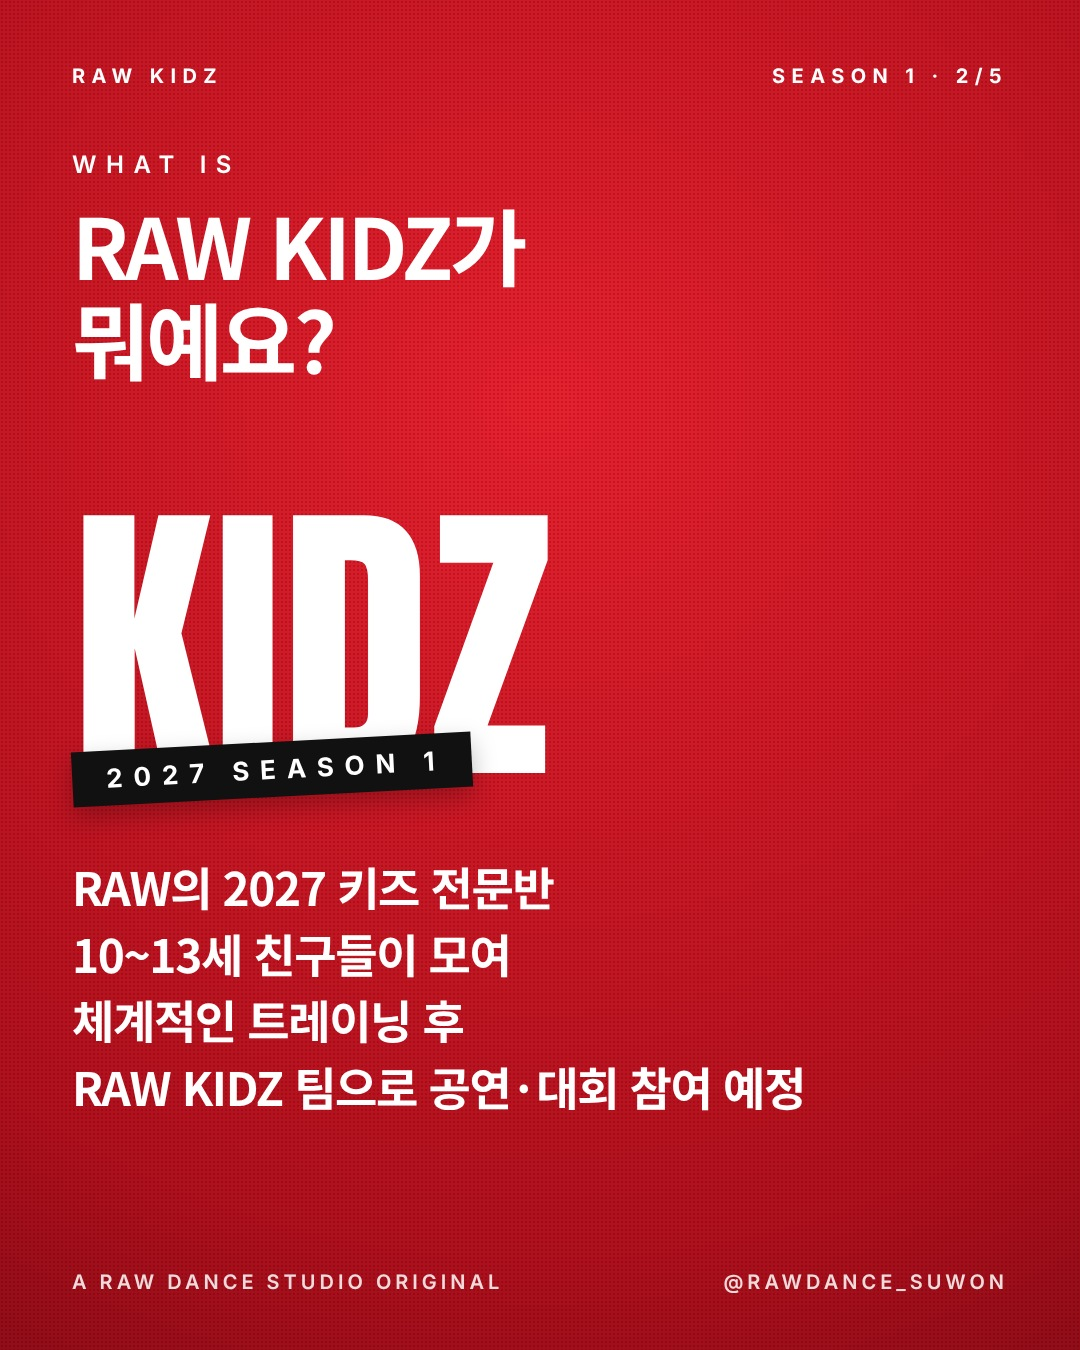
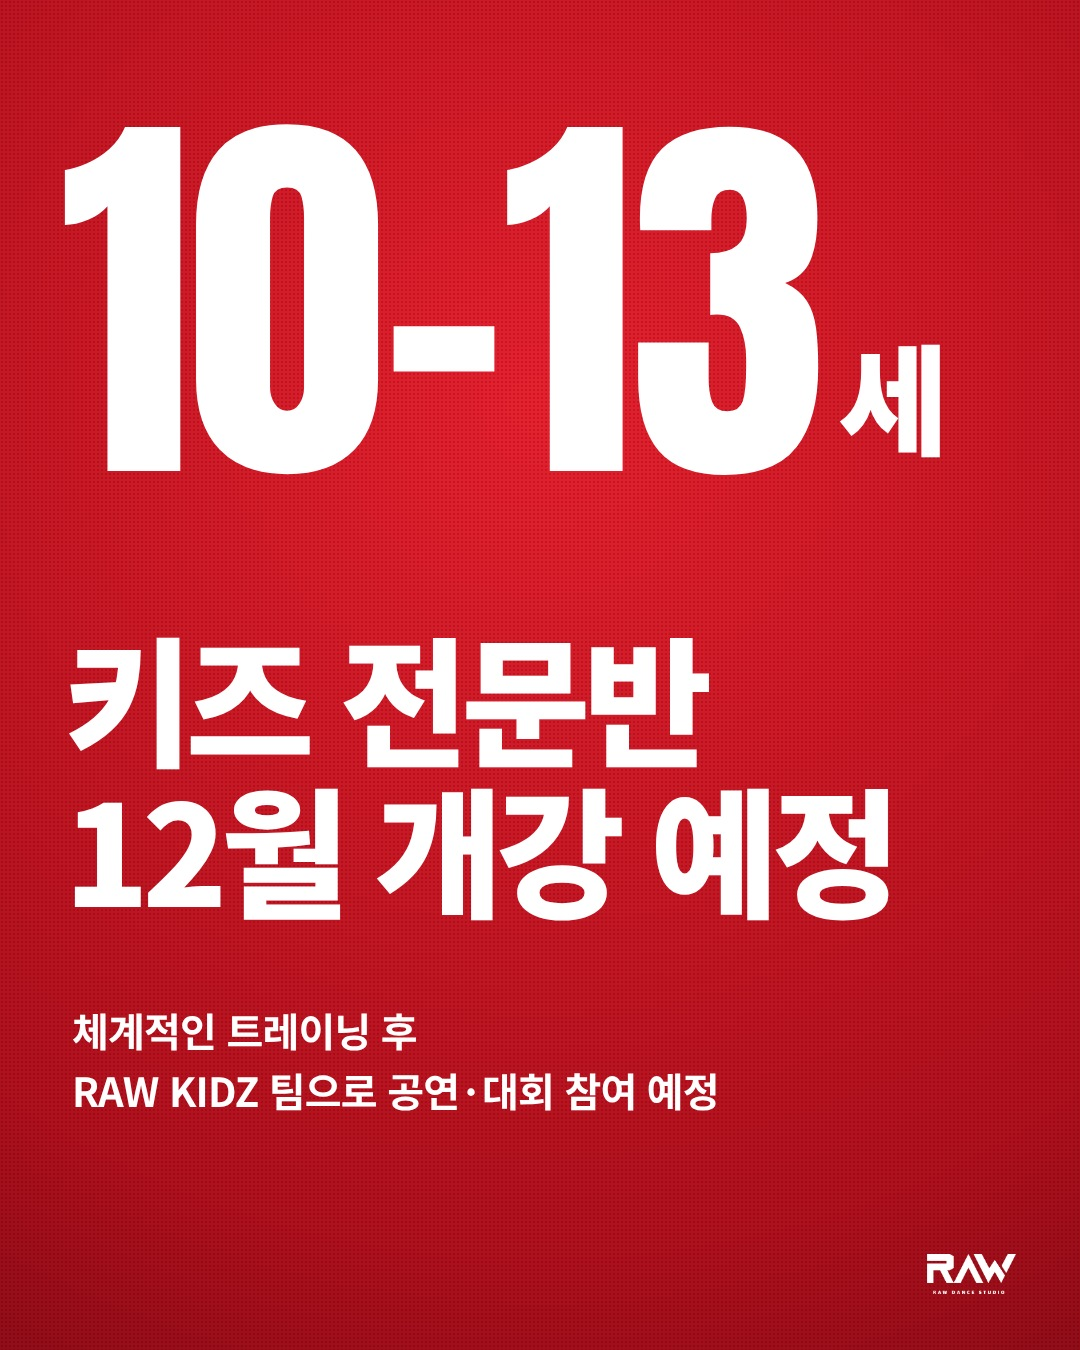
키즈 전문반 캐러셀 2차(AI 티 빼고 큰 글씨), 포스터 '2027' 삭제(12월 개강 예정과 혼동)
Claude-Session: https://claude.ai/code/session_01CMPXWNa21Fqq6srPZpa27D

diff --git a/content/2026-11-19_kidz-pro-poster/poster6.html b/content/2026-11-19_kidz-pro-poster/poster6.html
@@ -26,7 +26,7 @@ V.L1=`<div class="P" style="background:radial-gradient(120% 90% at 50% 30%,#E820
  ${BAND(220+360*0.84+4,30,'#111','#fff',470)}
  <div style="position:absolute;left:0;right:0;top:850px;text-align:center;color:#fff">
   <div style="font-size:32px;font-weight:800;margin-bottom:20px;letter-spacing:-.01em">RAW KIDZ 팀 구성 예정</div>
-  <div style="font-size:56px;font-weight:800;letter-spacing:-.03em">2027 키즈 전문반 모집 <span style="border:2px solid #fff;padding:2px 16px;font-size:44px">10~13세</span></div>
+  <div style="font-size:56px;font-weight:800;letter-spacing:-.03em">키즈 전문반 모집 <span style="border:2px solid #fff;padding:2px 16px;font-size:44px">10~13세</span></div>
   <div style="margin-top:18px;font-size:25px;font-weight:500">${LINE}</div></div>
  ${FOOT('#fff')}
 </div>`;
@@ -39,7 +39,7 @@ V.L2=`<div class="P" style="background:radial-gradient(120% 90% at 50% 30%,#E820
  ${BAND(220+360*0.84+4,30,'#111','#fff',470)}
  <div style="position:absolute;left:0;right:0;top:850px;text-align:center;color:#fff">
   <div style="font-size:32px;font-weight:800;margin-bottom:20px;letter-spacing:-.01em">RAW KIDZ 팀 구성 예정</div>
-  <div style="font-size:56px;font-weight:800;letter-spacing:-.03em">2027 키즈 전문반 모집 <span style="border:2px solid #fff;padding:2px 16px;font-size:44px">10~13세</span></div>
+  <div style="font-size:56px;font-weight:800;letter-spacing:-.03em">키즈 전문반 모집 <span style="border:2px solid #fff;padding:2px 16px;font-size:44px">10~13세</span></div>
   <div style="margin-top:18px;font-size:25px;font-weight:500">${LINE}</div></div>
 <div style="position:absolute;left:64px;right:64px;height:1px;background:rgba(255,255,255,.45);top:1112px"></div><div style="position:absolute;left:64px;right:64px;top:1128px;display:flex;color:#fff"><div style="flex:1;padding:6px 0 0 0px;"><div style="font-size:17px;opacity:.7;font-weight:500">대상</div><div style="margin-top:4px;font-size:26px;font-weight:800;letter-spacing:-.02em">10~13세</div></div><div style="flex:1;padding:6px 0 0 24px;border-left:1px solid rgba(255,255,255,.45);"><div style="font-size:17px;opacity:.7;font-weight:500">과정</div><div style="margin-top:4px;font-size:26px;font-weight:800;letter-spacing:-.02em">트레이닝 → 팀</div></div><div style="flex:1;padding:6px 0 0 24px;border-left:1px solid rgba(255,255,255,.45);"><div style="font-size:17px;opacity:.7;font-weight:500">무대</div><div style="margin-top:4px;font-size:26px;font-weight:800;letter-spacing:-.02em">공연·대회 예정</div></div></div><div style="position:absolute;left:64px;right:64px;height:1px;background:rgba(255,255,255,.45);top:1218px"></div> ${FOOT('#fff')}
 </div>`;
@@ -52,7 +52,7 @@ V.L3=`<div class="P" style="background:radial-gradient(120% 90% at 50% 30%,#E820
  ${BAND(220+360*0.84+4,30,'#111','#fff',470)}
  <div style="position:absolute;left:0;right:0;top:850px;text-align:center;color:#fff">
   <div style="font-size:32px;font-weight:800;margin-bottom:20px;letter-spacing:-.01em">RAW KIDZ 팀 구성 예정</div>
-  <div style="font-size:56px;font-weight:800;letter-spacing:-.03em">2027 키즈 전문반 모집 <span style="border:2px solid #fff;padding:2px 16px;font-size:44px">10~13세</span></div>
+  <div style="font-size:56px;font-weight:800;letter-spacing:-.03em">키즈 전문반 모집 <span style="border:2px solid #fff;padding:2px 16px;font-size:44px">10~13세</span></div>
   <div style="margin-top:18px;font-size:25px;font-weight:500">${LINE}</div></div>
  <div style="position:absolute;left:64px;right:64px;bottom:44px;display:flex;justify-content:space-between;align-items:flex-end;color:#fff"><div style="font-size:22px;line-height:1.6;font-weight:500"><b style="font-weight:800">상담</b> 인스타 DM @rawdance_suwon · 카톡 '로우댄스수원점학원' · 031-225-6600<br><span style="opacity:.65;font-size:18px">로우댄스학원 수원점 · 매산로 136, 4층 · 일정은 상담 때 안내</span></div><img class="logoW" src="img/raw-logo-tight.png" style="height:40px;margin-bottom:6px"></div>
 </div>`;
@@ -65,7 +65,7 @@ V.L3S=`<div class="P" style="height:1920px;background:radial-gradient(120% 80% a
  ${BAND(310+400*0.84+4,34,'#111','#fff',520)}
  <div style="position:absolute;left:0;right:0;top:1020px;text-align:center;color:#fff">
   <div style="font-size:36px;font-weight:800;margin-bottom:20px;letter-spacing:-.01em">RAW KIDZ 팀 구성 예정</div>
-  <div style="font-size:64px;font-weight:800;letter-spacing:-.03em">2027 키즈 전문반 모집</div>
+  <div style="font-size:64px;font-weight:800;letter-spacing:-.03em">키즈 전문반 모집</div>
   <div style="margin-top:20px;display:inline-block;border:3px solid #fff;padding:6px 26px;font-size:48px;font-weight:800">10~13세</div>
   <div style="margin-top:30px;font-size:28px;font-weight:500;line-height:1.5">체계적인 트레이닝 후 RAW KIDZ 팀으로<br>공연·대회 참여 예정</div></div>
  <div style="position:absolute;left:64px;right:64px;bottom:260px;text-align:center;color:#fff;font-size:26px;line-height:1.6;font-weight:500"><b style="font-weight:800">상담</b> 인스타 DM · 카톡 '로우댄스수원점학원' · 031-225-6600

diff --git a/content/2026-11-25_kidz-pro-teaser/carousel2.html b/content/2026-11-25_kidz-pro-teaser/carousel2.html
@@ -1,0 +1,48 @@
+<!doctype html><html lang="ko"><head><meta charset="utf-8"><style>
+/* 키즈 전문반 캐러셀 2~5장 2차 (원장님 2026-11-25 "캐러셀 5장 클로드 티 안 나게 다시")
+   1차에서 AI 티 난 것: 넓게 벌린 작은 영어 라벨(WHAT IS·EPISODES·SEASON 1·2/5·A RAW DANCE STUDIO ORIGINAL), 가는 선 표, 체크박스, EPISODE 01 같은 장치
+   → 1장 포스터(L3 미니멀)와 같은 빨강 바탕·큰 글씨. 장마다 한 문장만 크게, 작은 영어 라벨 없음, 오른쪽 아래 RAW 로고만
+   문구는 검수 통과 내용 + 12월 개강 예정(브랜드 가이드 11-25) */
+*{margin:0;padding:0;box-sizing:border-box}html,body{width:1080px;height:1350px;overflow:hidden}
+.P{width:1080px;height:1350px;position:relative;overflow:hidden;color:#fff;font-family:"Gothic A1","Noto Sans KR",sans-serif;background:radial-gradient(120% 90% at 50% 30%,#E8202E 0%,#B00F1C 70%,#7E0A14 100%)}
+.dot{position:absolute;inset:0;opacity:.16;background-image:radial-gradient(#000 1px,transparent 1px);background-size:4px 4px}
+.logo{position:absolute;right:64px;bottom:56px;height:40px;filter:brightness(0) invert(1)}
+.a{position:absolute}
+.h{font-weight:900;letter-spacing:-.05em;line-height:1.08}
+.s{font-weight:500;letter-spacing:-.02em;line-height:1.5}
+.bub{display:inline-block;position:relative;background:#fff;color:#111;border-radius:56px;padding:34px 54px 38px;font-size:70px;font-weight:900;letter-spacing:-.04em;line-height:1.15;box-shadow:0 18px 40px rgba(0,0,0,.28)}
+.bub:after{content:"";position:absolute;bottom:-30px;border:20px solid transparent;border-top:38px solid #fff}
+.bub.l:after{left:64px;border-left:26px solid #fff;transform:skewX(-14deg)}
+.bub.r:after{right:64px;border-right:26px solid #fff;transform:skewX(14deg)}
+.step{display:flex;align-items:baseline;gap:34px}
+.step b{font-size:200px;font-weight:900;line-height:1;letter-spacing:-.06em}
+.step span{font-size:40px;font-weight:700;letter-spacing:-.02em;opacity:.95}
+.step em{font-style:normal;display:inline-block;background:#111;color:#fff;font-size:26px;font-weight:800;padding:4px 14px;margin-left:10px;vertical-align:middle}
+</style></head><body><div id="r"></div>
+<script>
+const s=+new URLSearchParams(location.search).get('s')||2;
+const S={};
+// 2장: 누구·언제 — 나이 숫자를 가장 크게
+S[2]=`<div class="a" style="left:60px;top:130px;display:flex;align-items:flex-end;gap:14px"><span style="font:400 400px/0.86 Anton;letter-spacing:-.01em">10–13</span><span class="h" style="font-size:120px;margin-bottom:14px">세</span></div>
+ <div class="a h" style="left:64px;top:620px;font-size:140px">키즈 전문반<br>12월 개강 예정</div>
+ <div class="a s" style="left:72px;top:1000px;font-size:40px;font-weight:700">체계적인 트레이닝 후<br>RAW KIDZ 팀으로 공연·대회 참여 예정</div>`;
+// 3장: 과정 — 단어 세 개를 크게 쌓기
+S[3]=`<div class="a h" style="left:72px;top:110px;font-size:64px;font-weight:800">이렇게 가요</div>
+ <div class="a" style="left:64px;top:270px;display:flex;flex-direction:column;gap:70px">
+  <div class="step"><b>기본기</b><span>체계적인 트레이닝</span></div>
+  <div class="step"><b>한 팀</b><span>RAW KIDZ 팀 구성<em>예정</em></span></div>
+  <div class="step"><b>무대</b><span>공연·대회 참여<em>예정</em></span></div></div>
+ <div class="a s" style="left:72px;top:1130px;font-size:36px;font-weight:700;opacity:.92">팀으로 무대에 서는 게 목표예요</div>`;
+// 4장: 이런 친구 — 아이가 하는 말(말풍선, B2 광고에서 원장님이 고른 방식)
+S[4]=`<div class="a h" style="left:72px;top:110px;font-size:64px;font-weight:800">우리 아이가<br>이런 말 했다면</div>
+ <div class="a" style="left:64px;top:430px"><div class="bub l">춤 제대로<br>배우고 싶어!</div></div>
+ <div class="a" style="right:64px;top:700px"><div class="bub r">나도 무대에<br>서 보고 싶어</div></div>
+ <div class="a" style="left:100px;top:990px"><div class="bub l">친구들이랑<br>한 팀 하고 싶어</div></div>`;
+// 5장: 상담 — DM 한 단어를 가장 크게
+S[5]=`<div class="a h" style="left:72px;top:110px;font-size:64px;font-weight:800">상담은</div>
+ <div class="a" style="left:58px;top:200px;font:400 420px/0.9 Anton">DM</div>
+ <div class="a h" style="left:72px;top:600px;font-size:80px">'키즈 전문반'이라고<br>보내 주세요</div>
+ <div class="a s" style="left:72px;top:860px;font-size:36px">카톡 '로우댄스수원점학원' · 031-225-6600<br>수업 요일·시간은 상담 때 안내</div>
+ <div class="a s" style="left:72px;top:1020px;font-size:30px;opacity:.85">수원역·매교역 근처 매산로 136, 4층<br>건물 내 무료 주차</div>`;
+document.getElementById('r').innerHTML=`<div class="P"><div class="dot"></div>${S[s]}<img class="logo" src="raw-logo-tight.png"></div>`;
+</script></body></html>

diff --git a/content/2026-11-25_kidz-pro-teaser/shot_carousel2.js b/content/2026-11-25_kidz-pro-teaser/shot_carousel2.js
@@ -1,0 +1,5 @@
+// node shot_carousel2.js → slide2~5.jpg (2차, 클로드 티 안 나게)
+const {chromium}=require('playwright');const path=require('path');
+(async()=>{const b=await chromium.launch();const p=await b.newPage({viewport:{width:1080,height:1350}});
+for(const s of [2,3,4,5]){await p.goto('file://'+path.join(__dirname,'carousel2.html')+'?s='+s);await p.evaluate(()=>document.fonts.ready);await p.waitForTimeout(300);
+await p.screenshot({path:path.join(__dirname,`slide${s}.jpg`),type:'jpeg',quality:93});}await b.close();})();

diff --git a/content/2026-11-25_kidz-pro-teaser/instagram.md b/content/2026-11-25_kidz-pro-teaser/instagram.md
@@ -28,6 +28,11 @@
 - **3차 (원장님 "AI 배경 C안, 사람 있는 걸로 그냥"):** 1차 사람 장면 버전으로 C안 (`make_trailer_ai.js C 음원 AI폴더`, 연출 배경만은 끝에 `bg`). **인스타 올릴 때 'AI 정보' 표시 켜기** — 표시는 그 게시물에만 붙고 다른 게시물엔 안 붙음
 - **2차 (원장님 "직접 켜면 AI 콘텐츠가 계속 뜨던데" → 1번 "사람 장면 빼기"):** 사람이 나오는 AI 장면(운동화·아이 실루엣·발·팀 대형) 전부 뺌. 커튼 스포트라이트·큰 무대 조명·불꽃/붉은 연기 3개만, 구간·확대 위치를 바꿔 7컷. 사람·실제 사건처럼 보이는 장면이 없어 오해 소지가 적음 (인스타가 AI 영상을 알아보면 표시가 자동으로 붙을 수는 있음)
 
+### 캐러셀 2차 (2026-11-25, 원장님 "캐러셀 5장 클로드 티 안 나게 다시")
+- `carousel2.html` + `shot_carousel2.js` → `slide2~5.jpg`. 1차의 AI 티(넓게 벌린 작은 영어 라벨 WHAT IS·EPISODES·SEASON 1·2/5·A RAW DANCE STUDIO ORIGINAL, 가는 선 표, 체크박스, EPISODE 01)를 모두 뺌 → 1장 포스터(L3)와 같은 빨강 바탕, 장마다 한 문장만 크게, 오른쪽 아래 RAW 로고만
+- 2장 10–13세 / 키즈 전문반 12월 개강 예정 · 3장 기본기·한 팀·무대 · 4장 "우리 아이가 이런 말 했다면" 말풍선 3개 · 5장 상담은 DM
+- compliance-checker: 수정 후 통과 — 1장 "2027 키즈 전문반 모집" + 2장 "12월 개강 예정"이 2027년 12월로 읽힐 수 있음 → 1장(포스터 L3 피드·스토리)을 "키즈 전문반 모집"으로 고침. 4장 말풍선은 가정형("~했다면")·발언자 정보 없음이라 후기 아님(이름·나이·사진·"실제 아이들 이야기"를 붙이면 다시 검수). 5장 줄바꿈 "'키즈 전문반'이라고 / 보내 주세요"로 고침. 캐러셀 이미지만 다른 채널에 쓸 때는 그 채널 문구에 교습비 월 35만원 함께
+
 ## 릴스 캡션
 ```
 우리 아이의 첫 시즌, RAW KIDZ SEASON 1 🎬
